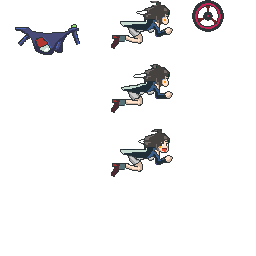
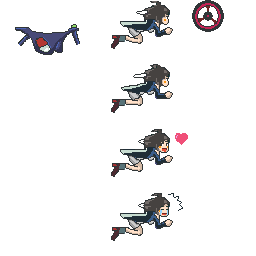
Added chara body sprite for failed. Updated chara body sprite for succeeded slightly.

Changed region(s): [[0.4375, 0.75, 0.7188, 0.9375], [0.6875, 0.5, 0.75, 0.5625]]

diff --git a/motorcycle/game.py b/motorcycle/game.py
@@ -17,6 +17,7 @@ from music import *
 class CharaBodyIndex(Enum):
     Normal = auto()
     Succeeded = auto()
+    Failed = auto()
 
 class GameState(Enum):
     GameTitle = auto()
@@ -45,6 +46,7 @@ class GameBike:
         self.chara_body_range_0 = Range2(w, 0, w, h)
         self.chara_body_range_1 = Range2(w, h, w, h)
         self.chara_body_range_steer = Range2(w, h * 2, w, h)
+        self.chara_body_range_cry = Range2(w, h * 3, w, h)
         r = BikeSpriteHeight / 4
         self.tire_range = Range2(w * 2, 0, r * 2, r * 2)
         self.front_tire_center = Vec2(w / 2 - r, r)
@@ -69,6 +71,8 @@ class GameBike:
     def chara_body_range(self):
         if self.chara_body_index == CharaBodyIndex.Succeeded:
             return self.chara_body_range_steer
+        if self.chara_body_index == CharaBodyIndex.Failed:
+            return self.chara_body_range_cry
         if self.bike.rotation_velocity < 0:
             return self.chara_body_range_0
         else:
@@ -218,7 +222,10 @@ class App:
 
     def update_result(self, failed, result_time):
         self.input.update(False)
-        self.bike.update_chara_body_index(CharaBodyIndex.Succeeded)
+        if failed:
+            self.bike.update_chara_body_index(CharaBodyIndex.Failed)
+        else:
+            self.bike.update_chara_body_index(CharaBodyIndex.Succeeded)
         self.result.update(failed, result_time)
         self.update_face(False, not failed)
         if self.input.x_pressed:
